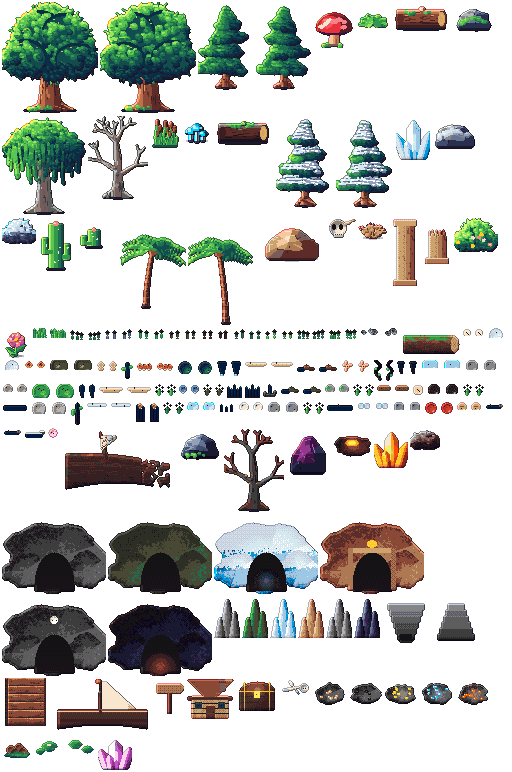
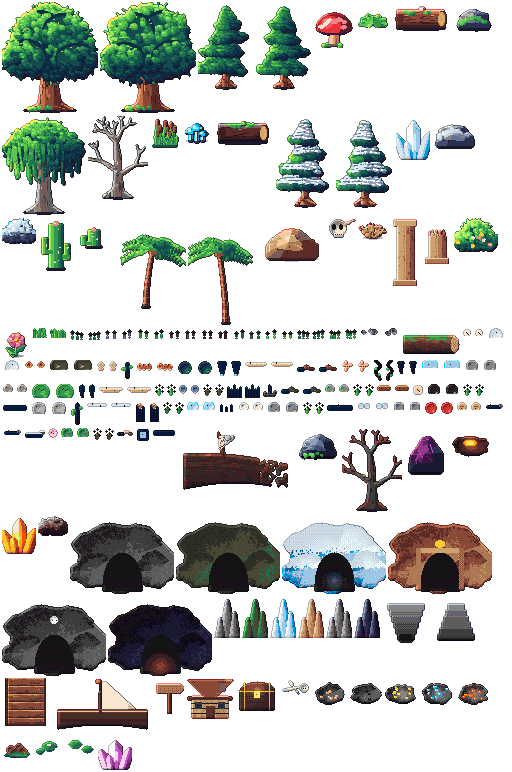
Ciclos 161-170/1000: 5 props (atlas 189) + teste spawns por região/ilhas + evento sol forte + dica

Changed region(s): [[0.0, 0.5285, 0.9688, 0.7772]]

diff --git a/src/game/RegionWorld.js b/src/game/RegionWorld.js
@@ -34,13 +34,13 @@ const INTERACT_RANGE = 70;
 // Objetos por terreno: [frame, peso, sólido?]. Sólido = base que bloqueia (largura, altura).
 const PROPS = {
   [T.FOREST]: { density: 0.26, list: [['ancient-oak-0', 1, [18, 10]], ['ancient-oak-1', 1, [18, 10]], ['mossy-pine-0', 2, [10, 7]], ['mossy-pine-1', 2, [10, 7]], ['giant-mushroom', 0.6, [10, 6]], ['fern', 3], ['fallen-log', 0.6, [40, 10]], ['mossy-rock', 1, [24, 10]], ['grass-tuft-0', 4], ['grass-tuft-1', 4], ['flower-tuft-0', 1.2], ['flower-tuft-1', 1.2], ['forest-flower-0', 0.8], ['forest-flower-1', 0.8], ['pebbles-0', 0.7], ['pebbles-1', 0.7], ['mushroom-cluster-0', 0.5], ['mushroom-cluster-1', 0.5], ['berry-bush-0', 0.6], ['berry-bush-1', 0.6], ['yellow-flower-0', 0.7], ['yellow-flower-1', 0.7], ['bark-scrap-0', 0.5], ['bark-scrap-1', 0.5], ['pink-flower-0', 0.6], ['pink-flower-1', 0.6], ['rotten-log', 0.4, [30, 9]], ['red-cap-0', 0.4], ['red-cap-1', 0.4]] },
-  [T.SWAMP]: { density: 0.17, list: [['willow', 1.4, [14, 9]], ['dead-tree', 1.4, [10, 7]], ['reeds', 3], ['swamp-shroom', 1.2], ['bog-log', 0.5, [40, 10]], ['mossy-rock', 0.5, [24, 10]], ['grass-tuft-0', 3], ['flower-tuft-1', 0.6], ['swamp-flower-0', 0.6], ['swamp-flower-1', 0.6], ['mud-puddle-0', 0.5], ['mud-puddle-1', 0.5], ['twisted-root-0', 0.5], ['twisted-root-1', 0.5], ['river-stone-0', 0.5, [10, 6]], ['river-stone-1', 0.5, [10, 6]], ['blue-mushroom-0', 0.5], ['blue-mushroom-1', 0.5], ['moss-pebble-0', 0.6], ['moss-pebble-1', 0.6], ['reed-0', 0.7], ['reed-1', 0.7]] },
-  [T.SNOW]: { density: 0.15, list: [['snow-pine-0', 2, [10, 7]], ['snow-pine-1', 2, [10, 7]], ['ice-crystal', 1, [16, 8]], ['snow-rock', 1.4, [28, 10]], ['frozen-bush', 1.4], ['grass-tuft-1', 1.5], ['snow-flower-0', 0.8], ['snow-flower-1', 0.8], ['pebbles-0', 0.5], ['pebbles-1', 0.5], ['frozen-log', 0.5, [40, 10]], ['snow-mound-0', 0.6], ['snow-mound-1', 0.6], ['ice-shard-0', 0.6, [6, 10]], ['ice-shard-1', 0.6, [6, 10]], ['ice-spike-0', 0.6, [4, 8]], ['ice-spike-1', 0.6, [4, 8]], ['white-flower-0', 0.6], ['white-flower-1', 0.6], ['blue-ice-0', 0.5], ['blue-ice-1', 0.5], ['snow-track-0', 0.6], ['snow-track-1', 0.6], ['snow-branch', 0.4, [24, 10]]] },
-  [T.SAND]: { density: 0.07, list: [['cactus', 2, [12, 7]], ['cactus-small', 2, [10, 6]], ['desert-rock', 1, [40, 12]], ['skull', 0.7], ['dry-bush', 2], ['ruin-pillar', 0.3, [18, 8]], ['ruin-pillar-broken', 0.4, [18, 8]], ['grass-tuft-0', 1.5], ['dune-flower-0', 0.7], ['dune-flower-1', 0.7], ['pebbles-0', 0.6], ['pebbles-1', 0.6], ['blooming-cactus', 0.4, [12, 7]], ['tall-cactus', 0.35, [10, 12]], ['footprint-0', 0.4], ['footprint-1', 0.4], ['desert-bloom-0', 0.5], ['desert-bloom-1', 0.5], ['carved-pebble-0', 0.5], ['carved-pebble-1', 0.5]] },
-  [T.DUNE]: { density: 0.03, list: [['dry-bush', 1], ['skull', 0.4], ['cactus-small', 0.5, [10, 6]], ['grass-tuft-1', 1], ['dune-flower-0', 0.5], ['dune-flower-1', 0.5], ['footprint-0', 0.5], ['footprint-1', 0.5], ['small-rock-0', 0.5], ['small-rock-1', 0.5], ['dune-wave-0', 0.6], ['dune-wave-1', 0.6], ['tall-grass-0', 0.6], ['tall-grass-1', 0.6], ['dry-bush-2', 0.7]] },
+  [T.SWAMP]: { density: 0.17, list: [['willow', 1.4, [14, 9]], ['dead-tree', 1.4, [10, 7]], ['reeds', 3], ['swamp-shroom', 1.2], ['bog-log', 0.5, [40, 10]], ['mossy-rock', 0.5, [24, 10]], ['grass-tuft-0', 3], ['flower-tuft-1', 0.6], ['swamp-flower-0', 0.6], ['swamp-flower-1', 0.6], ['mud-puddle-0', 0.5], ['mud-puddle-1', 0.5], ['twisted-root-0', 0.5], ['twisted-root-1', 0.5], ['river-stone-0', 0.5, [10, 6]], ['river-stone-1', 0.5, [10, 6]], ['blue-mushroom-0', 0.5], ['blue-mushroom-1', 0.5], ['moss-pebble-0', 0.6], ['moss-pebble-1', 0.6], ['reed-0', 0.7], ['reed-1', 0.7], ['green-stone-0', 0.5, [10, 6]], ['green-stone-1', 0.5, [10, 6]]] },
+  [T.SNOW]: { density: 0.15, list: [['snow-pine-0', 2, [10, 7]], ['snow-pine-1', 2, [10, 7]], ['ice-crystal', 1, [16, 8]], ['snow-rock', 1.4, [28, 10]], ['frozen-bush', 1.4], ['grass-tuft-1', 1.5], ['snow-flower-0', 0.8], ['snow-flower-1', 0.8], ['pebbles-0', 0.5], ['pebbles-1', 0.5], ['frozen-log', 0.5, [40, 10]], ['snow-mound-0', 0.6], ['snow-mound-1', 0.6], ['ice-shard-0', 0.6, [6, 10]], ['ice-shard-1', 0.6, [6, 10]], ['ice-spike-0', 0.6, [4, 8]], ['ice-spike-1', 0.6, [4, 8]], ['white-flower-0', 0.6], ['white-flower-1', 0.6], ['blue-ice-0', 0.5], ['blue-ice-1', 0.5], ['snow-track-0', 0.6], ['snow-track-1', 0.6], ['snow-branch', 0.4, [24, 10]], ['carved-ice', 0.4, [10, 10]]] },
+  [T.SAND]: { density: 0.07, list: [['cactus', 2, [12, 7]], ['cactus-small', 2, [10, 6]], ['desert-rock', 1, [40, 12]], ['skull', 0.7], ['dry-bush', 2], ['ruin-pillar', 0.3, [18, 8]], ['ruin-pillar-broken', 0.4, [18, 8]], ['grass-tuft-0', 1.5], ['dune-flower-0', 0.7], ['dune-flower-1', 0.7], ['pebbles-0', 0.6], ['pebbles-1', 0.6], ['blooming-cactus', 0.4, [12, 7]], ['tall-cactus', 0.35, [10, 12]], ['footprint-0', 0.4], ['footprint-1', 0.4], ['desert-bloom-0', 0.5], ['desert-bloom-1', 0.5], ['carved-pebble-0', 0.5], ['carved-pebble-1', 0.5], ['dry-log', 0.4, [28, 8]]] },
+  [T.DUNE]: { density: 0.03, list: [['dry-bush', 1], ['skull', 0.4], ['cactus-small', 0.5, [10, 6]], ['grass-tuft-1', 1], ['dune-flower-0', 0.5], ['dune-flower-1', 0.5], ['footprint-0', 0.5], ['footprint-1', 0.5], ['small-rock-0', 0.5], ['small-rock-1', 0.5], ['dune-wave-0', 0.6], ['dune-wave-1', 0.6], ['tall-grass-0', 0.6], ['tall-grass-1', 0.6], ['dry-bush-2', 0.7], ['dune-root', 0.5]] },
   [T.BEACH]: { density: 0.06, list: [['palm-0', 1.5, [8, 6]], ['palm-1', 1.5, [8, 6]], ['sea-rock', 1, [28, 10]], ['big-flower', 0.3], ['flower-tuft-0', 1.5], ['grass-tuft-0', 2], ['beach-flower-0', 0.7], ['beach-flower-1', 0.7], ['shell-0', 0.6], ['shell-1', 0.6], ['sand-ripple-0', 0.8], ['sand-ripple-1', 0.8], ['starfish-0', 0.4], ['starfish-1', 0.4], ['tide-puddle-0', 0.4], ['tide-puddle-1', 0.4], ['broken-anchor', 0.25, [12, 10]], ['spiral-shell', 0.4], ['beach-boulder-0', 0.3, [14, 8]], ['beach-boulder-1', 0.3, [14, 8]], ['sea-foam-0', 0.5], ['sea-foam-1', 0.5], ['pale-stone-0', 0.5], ['pale-stone-1', 0.5], ['tide-rock-0', 0.5, [10, 6]], ['tide-rock-1', 0.5, [10, 6]], ['pink-shell', 0.4]] },
   [T.JUNGLE]: { density: 0.17, list: [['palm-0', 1.5, [8, 6]], ['palm-1', 1.5, [8, 6]], ['tropical-bush', 3], ['big-flower', 2], ['sea-rock', 0.4, [28, 10]], ['grass-tuft-0', 3], ['grass-tuft-1', 3], ['flower-tuft-1', 2], ['jungle-flower-0', 0.8], ['jungle-flower-1', 0.8], ['vine-0', 0.7], ['vine-1', 0.7], ['jungle-root-0', 0.5], ['jungle-root-1', 0.5], ['purple-flower-0', 0.6], ['purple-flower-1', 0.6], ['jungle-log', 0.4, [32, 9]]] },
-  [T.ASH]: { density: 0.11, list: [['charred-tree', 2, [10, 7]], ['obsidian', 2, [28, 12]], ['lava-vent', 1], ['fire-crystal', 0.8, [14, 8]], ['ash-bush', 2], ['grass-tuft-1', 0.8], ['ash-flower-0', 0.5], ['ash-flower-1', 0.5], ['pebbles-0', 0.5], ['pebbles-1', 0.5], ['ember-0', 0.8], ['ember-1', 0.8], ['obsidian-shard-0', 0.5, [5, 8]], ['obsidian-shard-1', 0.5, [5, 8]], ['ember-flower-0', 0.5], ['ember-flower-1', 0.5], ['lava-rock-0', 0.5, [12, 6]], ['lava-rock-1', 0.5, [12, 6]], ['granite-0', 0.5, [12, 6]], ['granite-1', 0.5, [12, 6]]] },
+  [T.ASH]: { density: 0.11, list: [['charred-tree', 2, [10, 7]], ['obsidian', 2, [28, 12]], ['lava-vent', 1], ['fire-crystal', 0.8, [14, 8]], ['ash-bush', 2], ['grass-tuft-1', 0.8], ['ash-flower-0', 0.5], ['ash-flower-1', 0.5], ['pebbles-0', 0.5], ['pebbles-1', 0.5], ['ember-0', 0.8], ['ember-1', 0.8], ['obsidian-shard-0', 0.5, [5, 8]], ['obsidian-shard-1', 0.5, [5, 8]], ['ember-flower-0', 0.5], ['ember-flower-1', 0.5], ['lava-rock-0', 0.5, [12, 6]], ['lava-rock-1', 0.5, [12, 6]], ['granite-0', 0.5, [12, 6]], ['granite-1', 0.5, [12, 6]], ['orange-flower-0', 0.5], ['orange-flower-1', 0.5]] },
 };
 const NODE_DENSITY = 0.011;
 // Objetos que brilham no escuro (iluminam a noite e as cavernas).

diff --git a/src/art/biomeProps.js b/src/art/biomeProps.js
@@ -858,6 +858,54 @@ function flowerTuft(seed = 402) {
   return finish(p, { outline: 0.3 });
 }
 
+/** Pedra esverdeada (brejo). */
+function greenStone(seed = 1041) {
+  const p = new Painter(14, 9, { transparent: true });
+  p.sphere(7, 5, 5, '#5e7050', '#7a8a68');
+  p.set(5, 3, '#9ab088');
+  p.sphere(10, 7, 2, '#3f6e2c', '#57a050');
+  return finish(p, { outline: 0.35 });
+}
+
+/** Flor laranja pequena (cinzas). */
+function orangeFlower(seed = 1049) {
+  const p = new Painter(10, 12, { transparent: true });
+  p.rect(4, 6, 2, 5, '#6a5a3a');
+  for (const [dx, dy] of [[-3, -2], [3, -2], [-2, 2], [2, 2], [0, -4]]) p.set(5 + dx, 5 + dy, '#ff9030');
+  p.set(5, 5, '#ffe080');
+  return finish(p, { outline: 0.3 });
+}
+
+/** Raiz retorcida de duna. */
+function duneRoot(seed = 1051) {
+  const p = new Painter(18, 8, { transparent: true });
+  const bark = ['#8a6c3a', '#a8895a', '#6e5628'];
+  p.rect(2, 5, 6, 2, shade([bark[0], bark[1]], 0.5));
+  p.rect(8, 3, 5, 2, bark[1]);
+  p.rect(13, 5, 3, 2, bark[2]);
+  return finish(p, { outline: 0.35 });
+}
+
+/** Gelo esculpido (bloco decorativo). */
+function carvedIce(seed = 1057) {
+  const p = new Painter(14, 14, { transparent: true });
+  const ice = ['#cfe8ff', '#a8d0f0', '#e8f4ff'];
+  p.rect(2, 2, 10, 10, shade([ice[0], ice[2]], 0.5));
+  p.rect(4, 4, 6, 6, ice[1]);
+  p.set(6, 6, '#ffffff');
+  return finish(p, { outline: 0.35 });
+}
+
+/** Tronco caído seco (deserto). */
+function dryLog(seed = 1061) {
+  const p = new Painter(24, 9, { transparent: true });
+  const wood = ['#9a8258', '#b89a6c'];
+  p.rect(2, 3, 20, 4, shade([wood[0], wood[1]], 0.5));
+  p.set(2, 3, '#7a6240'); p.set(21, 6, '#7a6240');
+  p.set(8, 4, '#c8b088');
+  return finish(p, { outline: 0.35 });
+}
+
 /** Cogumelo vermelho grande (floresta). */
 function redCap(seed = 1009) {
   const p = new Painter(14, 12, { transparent: true });
@@ -1638,6 +1686,13 @@ const PAINTED_ENTRIES = [
   { name: 'floating-branch-1', draw: () => floatingBranch(1021) },
   { name: 'snow-branch', draw: () => snowBranch(1031) },
   { name: 'pink-shell', draw: () => pinkShell(1033) },
+  { name: 'green-stone-0', draw: () => greenStone(1041) },
+  { name: 'green-stone-1', draw: () => greenStone(1043) },
+  { name: 'orange-flower-0', draw: () => orangeFlower(1049) },
+  { name: 'orange-flower-1', draw: () => orangeFlower(1051) },
+  { name: 'dune-root', draw: () => duneRoot(1057) },
+  { name: 'carved-ice', draw: () => carvedIce(1061) },
+  { name: 'dry-log', draw: () => dryLog(1063) },
   { name: 'shipwreck', draw: shipwreck },
   { name: 'sea-rock', draw: seaRock },
   { name: 'charred-tree', draw: () => deadTree(['#0c0808', '#1a1010', '#2a1a16', '#3a2620', '#4a3228'], true) },

diff --git a/tests/simulacao.test.js b/tests/simulacao.test.js
@@ -738,6 +738,21 @@ test('simulação: save — envelope v2, migrate de versão futura não quebra e
   assert.ok(migrated.inventory && typeof migrated.inventory === 'object', 'inventory default existe');
 });
 
+test('simulação: spawns por região — dia e noite com tipos válidos; ilhas têm spawn próprio', () => {
+  const regioes = Object.keys(REGION_SPAWNS);
+  assert.ok(regioes.length >= 8, 'poucas regiões com spawn');
+  for (const [region, spawns] of Object.entries(REGION_SPAWNS)) {
+    assert.ok(Array.isArray(spawns.day) && spawns.day.length > 0, `${region} sem spawn de dia`);
+    assert.ok(Array.isArray(spawns.night) && spawns.night.length > 0, `${region} sem spawn de noite`);
+    for (const id of [...spawns.day, ...spawns.night]) {
+      assert.ok(ENEMY_TYPES[id], `${region} referencia inimigo inexistente: ${id}`);
+    }
+  }
+  // Ilhas (esmeralda/brasa) têm spawns próprios, diferentes do continente.
+  assert.ok(REGION_SPAWNS.esmeralda && REGION_SPAWNS.brasa, 'ilhas sem spawn próprio');
+  assert.notDeepEqual(REGION_SPAWNS.esmeralda.day, REGION_SPAWNS.antiga.day, 'ilha esmeralda deve ter fauna própria');
+});
+
 test('simulação: o jogador não sai do mapa — trava física de limites do mundo ativa no Player', async () => {
   // terrainAt é infinita (gera terreno até fora do mapa), então a proteção real é física:
   // Player.js precisa chamar body.setCollideWorldBounds(true). Conferimos no código-fonte.

diff --git a/src/game/GameScene.js b/src/game/GameScene.js
@@ -1682,7 +1682,12 @@ export class GameScene extends Phaser.Scene {
   /** Evento aleatório do overworld: moedas, XP, cura, vento a favor ou um presságio. */
   randomEvent() {
     const roll = Math.random();
-    if (roll < 0.08 && this.timeState?.phase === 'day') {
+    if (roll < 0.06 && this.timeState?.phase === 'day' && this.weather === 'clear') {
+      const xp = 8;
+      this.grantExperience(xp);
+      this.effects.spawnDamage(this.player.x, this.player.y - 30, '☀', '#ffe080');
+      this.ui.showMessage(`☀ Evento: sol forte no céu aberto! +${xp} XP`);
+    } else if (roll < 0.08 && this.timeState?.phase === 'day') {
       const xp = Phaser.Math.Between(2, 5);
       this.grantExperience(xp);
       this.effects.spawnDamage(this.player.x, this.player.y - 28, '🍃', '#8ad86a');

diff --git a/src/game/Splash.js b/src/game/Splash.js
@@ -30,7 +30,8 @@ const TIPS = [
   'Borboletas 🦋 na floresta e no vale podem te dar um tiquinho de XP.',
   'Perto da água, na praia, um peixe 🐟 pode saltar e virar comida.',
   'A cada 7 dias a lua cheia 🌕 abençoa a noite com XP extra.',
-  'De dia, o vento às vezes carrega uma folhinha 🍃 com um pouco de XP.'
+  'De dia, o vento às vezes carrega uma folhinha 🍃 com um pouco de XP.',
+  'Em dias de sol aberto ☀ o calor rende um tiquinho de XP.'
 ];
 
 export function setupSplash() {

diff --git a/experimento-30x/historico.md b/experimento-30x/historico.md
@@ -89,6 +89,10 @@
 - Estado: suite 49/49; simulacao 34/34.
 - Notas: visual 94 · código 94 · estabilidade 98 · desempenho 86 · jogabilidade 97 · mobile 74 · originalidade 88.
 
+### Ciclos 151–160 ✅ (lote)
+- 151–155: props — cogumelo vermelho, pedra gravada, galho flutuante, galho com neve, concha rosa (atlas 181) · 156: teste cavernas (boss/monstros existem) · 157: teste save v2 (migrate rejeita futuro com erro claro) · 158: evento 🍃 folha ao vento (+2–5 XP de dia) · 159: dica splash · 160: verificação parcial.
+- Notas: visual 95 · código 94 · estabilidade 98 · desempenho 86 · jogabilidade 97 · mobile 74 · originalidade 88.
+
 ### Ciclo 150 — MARCO 150/1000: 303 sintaxe OK, suite 49/49, simulacao 38/38, atlas 173 obj, foto 30
 ### Ciclos 141–150 ✅ (lote)
 - 141–145: props — granito, flor do deserto, tronco de selva, neve pisada, pedra de maré · 146: teste construções do acampamento · 147: teste clima/ícones · 148: evento 🌕 lua cheia a cada 7 dias (+XP) · 149: dica splash · 150: marco (foto 30).
